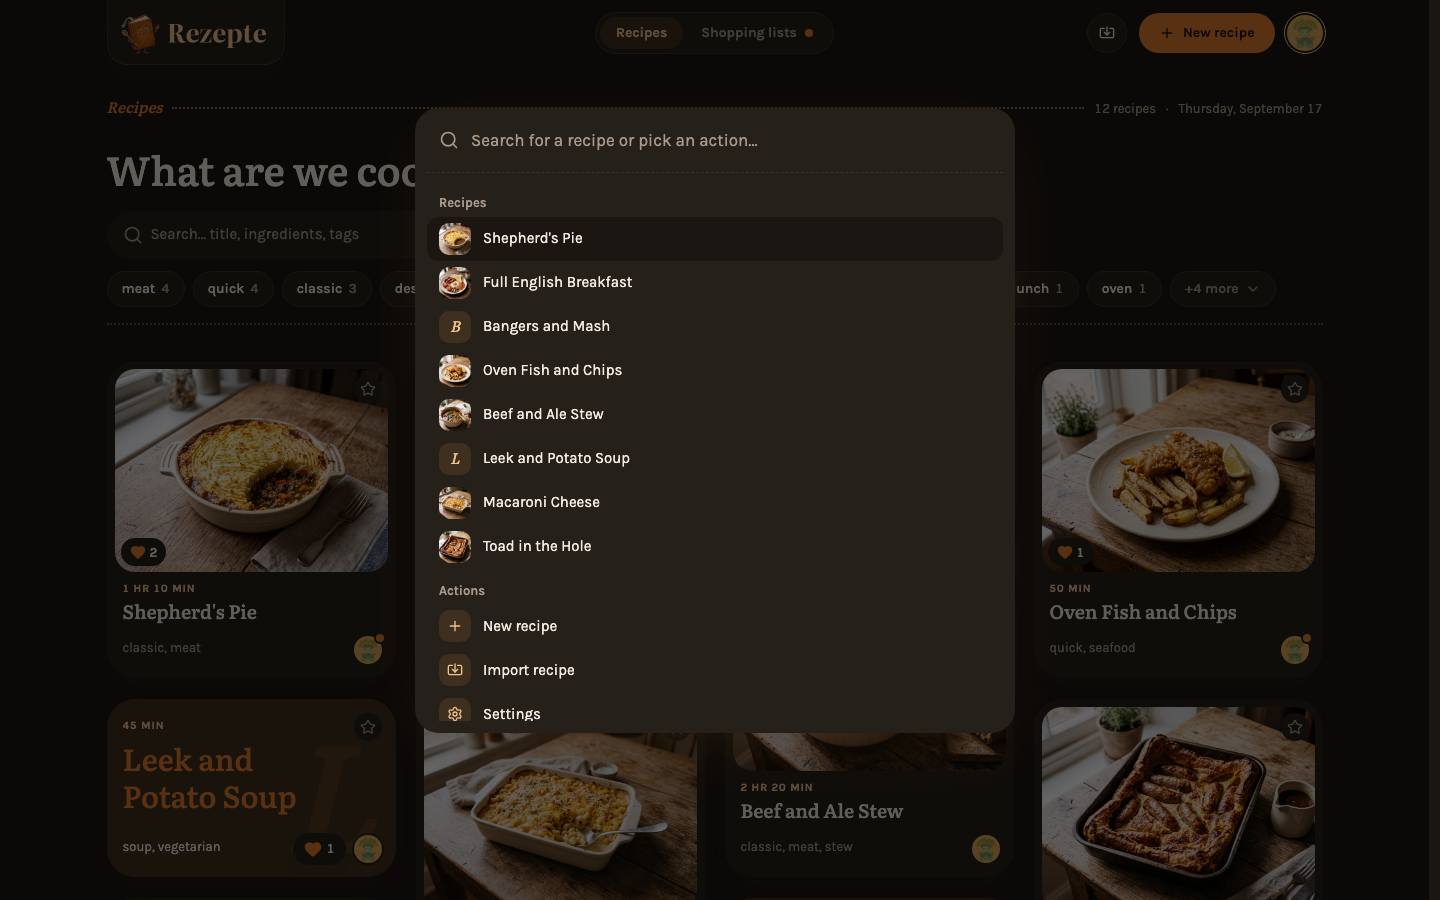
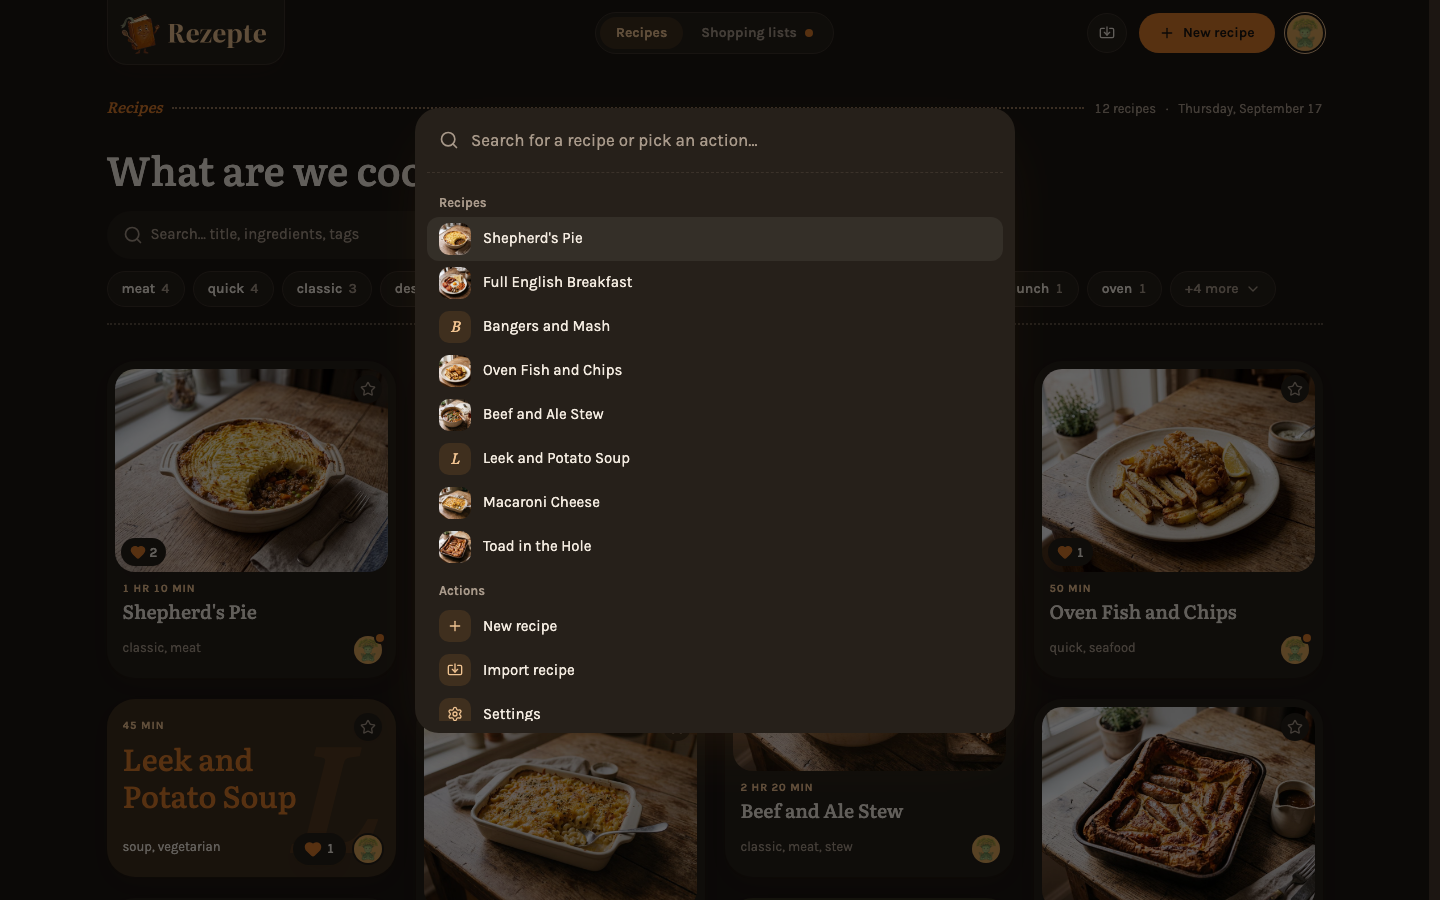
fix(ui): lift highlighted list rows in dark, no black bar

Changed region(s): [[0.2812, 0.2178, 0.7188, 0.3111]]

diff --git a/frontend/src/app.css b/frontend/src/app.css
@@ -25,6 +25,8 @@
 	   dark values lift them a step above the fields they cover. */
 	--color-popover: #ffffff;
 	--color-popover-border: #e3d7c3;
+	/* The highlighted row in a popover list or menu. */
+	--color-popover-highlight: var(--color-background);
 	--color-text: #2b2118;
 	--color-text-muted: #756554;
 	/* A label written into a field's top border (the ingredient row): the
@@ -333,6 +335,7 @@
 	--color-border: #3b322a;
 	--color-popover: #3a3129;
 	--color-popover-border: #56493c;
+	--color-popover-highlight: color-mix(in srgb, var(--color-text) 7%, transparent);
 	--color-text: #f3ebe0;
 	--color-text-muted: #a8998a;
 	--color-primary: #d97a2b;
@@ -386,6 +389,7 @@
 		--color-border: #3b322a;
 		--color-popover: #3a3129;
 		--color-popover-border: #56493c;
+		--color-popover-highlight: color-mix(in srgb, var(--color-text) 7%, transparent);
 		--color-text: #f3ebe0;
 		--color-text-muted: #a8998a;
 		--color-primary: #d97a2b;

diff --git a/frontend/src/lib/components/ui/CommandPalette.svelte b/frontend/src/lib/components/ui/CommandPalette.svelte
@@ -169,7 +169,7 @@
 	// so its rows light up in background, and the sheet is background, where
 	// the same tone would vanish, so its rows light up in surface.
 	const item = $derived(
-		`flex h-11 cursor-default items-center gap-3 rounded-md px-3 text-body text-text outline-none ${phone.current ? 'data-selected:bg-surface' : 'data-selected:bg-background'}`
+		`flex h-11 cursor-default items-center gap-3 rounded-md px-3 text-body text-text outline-none ${phone.current ? 'data-selected:bg-surface' : 'data-selected:bg-popover-highlight'}`
 	);
 	const heading = 'px-3 pt-3 pb-1 text-caption font-semibold text-text-muted';
 </script>

diff --git a/frontend/src/lib/components/ui/Select.svelte b/frontend/src/lib/components/ui/Select.svelte
@@ -149,7 +149,7 @@
 				<BitsSelect.Item
 					value={option.value}
 					label={option.label}
-					class="flex h-10 cursor-default items-center justify-between gap-8 rounded-sm px-3 text-body-sm text-text outline-none data-highlighted:bg-background"
+					class="flex h-10 cursor-default items-center justify-between gap-8 rounded-sm px-3 text-body-sm text-text outline-none data-highlighted:bg-popover-highlight"
 				>
 					{#snippet children({ selected })}
 						<span class="flex min-w-0 items-baseline gap-2">

diff --git a/frontend/src/lib/components/editor/TagInput.svelte b/frontend/src/lib/components/editor/TagInput.svelte
@@ -365,7 +365,7 @@
 							onpointermove={(event) => point(event, index)}
 							class="flex min-h-11 cursor-pointer gap-2.5 rounded-lg px-2.5 text-body {index ===
 							highlighted
-								? 'bg-background dark:bg-text/7'
+								? 'bg-popover-highlight'
 								: ''} {row.isNew ? 'items-center py-2' : 'items-start py-2.5'} {row.isNew &&
 							rows.length > 1
 								? 'relative mt-2 before:absolute before:inset-x-2.5 before:-top-1 before:h-px before:bg-popover-border'

diff --git a/frontend/src/lib/components/shopping/InvitePicker.svelte b/frontend/src/lib/components/shopping/InvitePicker.svelte
@@ -194,7 +194,7 @@
 				<Combobox.Item
 					value={person.id}
 					label={person.displayName}
-					class="flex cursor-pointer items-center gap-3 rounded-sm px-2.5 py-2 text-text outline-none data-highlighted:bg-background"
+					class="flex cursor-pointer items-center gap-3 rounded-sm px-2.5 py-2 text-text outline-none data-highlighted:bg-popover-highlight"
 				>
 					<PersonMark {person} size="md" />
 					<span class="flex min-w-0 flex-col">

diff --git a/frontend/src/lib/components/recipe/DiaryEntry.svelte b/frontend/src/lib/components/recipe/DiaryEntry.svelte
@@ -180,7 +180,7 @@
 								{#if entry.canEdit}
 									<DropdownMenu.Item
 										onSelect={startEdit}
-										class="flex h-10 items-center gap-2 rounded-sm px-3 text-body-sm text-text outline-none data-highlighted:bg-background"
+										class="flex h-10 items-center gap-2 rounded-sm px-3 text-body-sm text-text outline-none data-highlighted:bg-popover-highlight"
 									>
 										{m.diary_edit()}
 									</DropdownMenu.Item>

diff --git a/frontend/src/lib/components/settings/AvatarControl.svelte b/frontend/src/lib/components/settings/AvatarControl.svelte
@@ -30,7 +30,7 @@
 	let badge = $state<HTMLSpanElement>();
 
 	const item =
-		'flex h-10 items-center rounded-sm px-3 text-body-sm text-text outline-none data-highlighted:bg-background';
+		'flex h-10 items-center rounded-sm px-3 text-body-sm text-text outline-none data-highlighted:bg-popover-highlight';
 
 	function picked(event: Event) {
 		const target = event.currentTarget as HTMLInputElement;

diff --git a/frontend/src/lib/components/editor/UnitInput.svelte b/frontend/src/lib/components/editor/UnitInput.svelte
@@ -220,7 +220,7 @@
 						onclick={() => pick(unit)}
 						class="flex h-10 cursor-pointer items-center rounded-sm text-body-sm {labeled
 							? 'px-2 @xl:px-1.5'
-							: 'px-1.5'} {index === highlighted ? 'bg-background font-semibold' : ''}"
+							: 'px-1.5'} {index === highlighted ? 'bg-popover-highlight font-semibold' : ''}"
 					>
 						{unit}
 					</li>

diff --git a/frontend/src/routes/settings/users/[username]/+page.svelte b/frontend/src/routes/settings/users/[username]/+page.svelte
@@ -489,7 +489,7 @@
 	});
 
 	const menuItemClass =
-		'flex h-10 items-center rounded-sm px-3 text-body-sm text-text outline-none data-highlighted:bg-background';
+		'flex h-10 items-center rounded-sm px-3 text-body-sm text-text outline-none data-highlighted:bg-popover-highlight';
 </script>
 
 <svelte:head>
